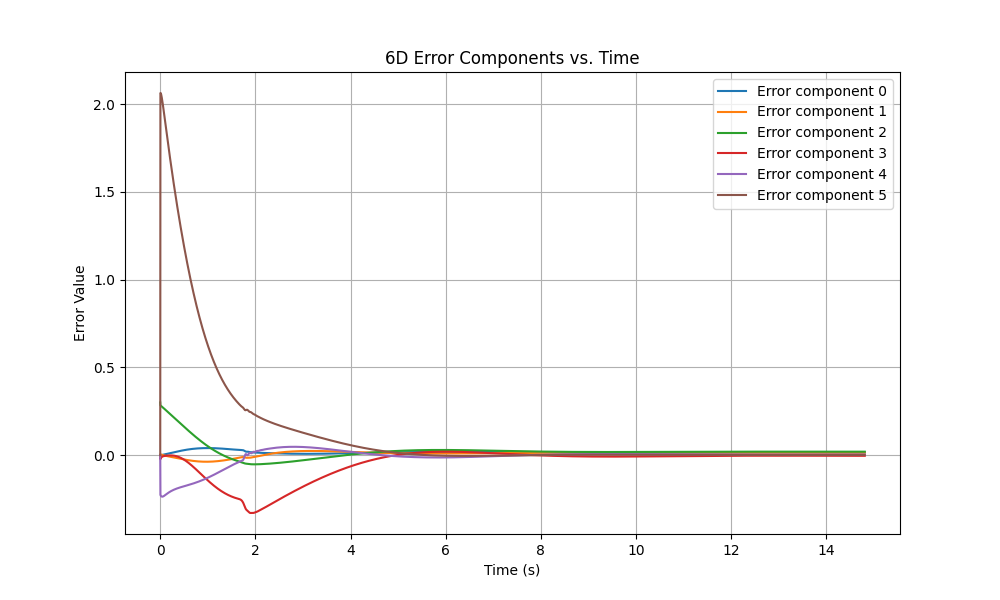
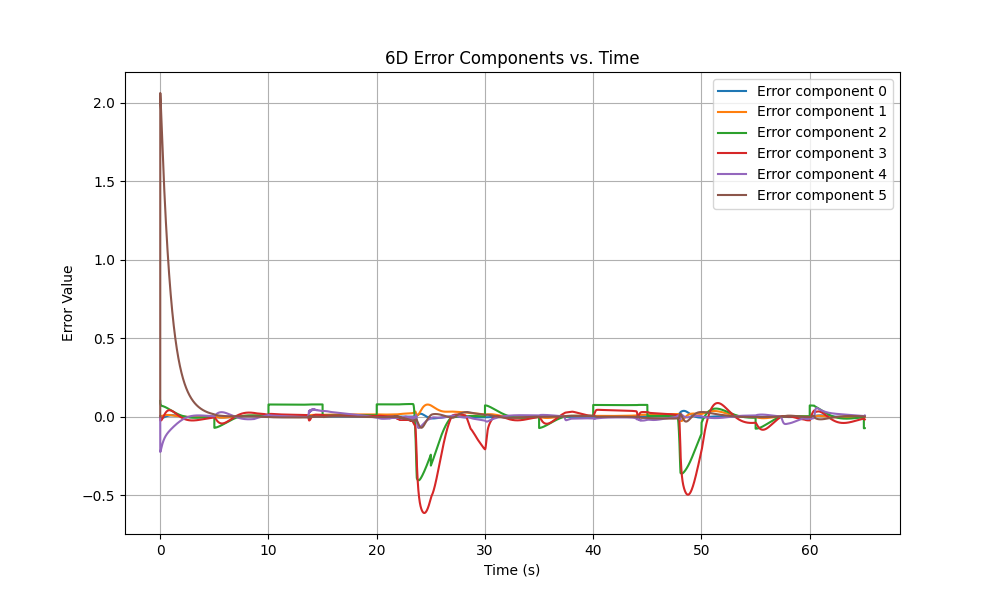
improved slipping problem by making impratio=50, adding friction params

diff --git a/sim.py b/sim.py
@@ -41,15 +41,15 @@ def get_task_pose(model, data, task: str) -> np.ndarray:
     task_pose = np.zeros(7) # first 3 are positions, last 4 are quaternions
     if task == 'pre-grasp':
         task_pose[:3] = data.body("object").xpos
-        task_pose[2] += 0.3 # the gripper should be 30cm above the target while pre-grasp in the z direction
+        task_pose[2] += 0.1 # the gripper should be 30cm above the target while pre-grasp in the z direction
         task_pose[3:] = data.body("object").xquat # set to the orientation of the target
     elif task == 'move-down':
         task_pose[:3] = data.body("object").xpos
-        task_pose[2] += 0.15 # the gripper should be just above the object to grasp it. 
+        task_pose[2] += 0.03 # the gripper should be just above the object to grasp it. 
         task_pose[3:] = data.body("object").xquat # set to the orientation of the target
     elif task == 'grasp':
         task_pose[:3] = data.body("object").xpos
-        task_pose[2] += 0.15 # the gripper should be just above the box to grasp it. 
+        task_pose[2] += 0.03 # the gripper should be just above the box to grasp it. 
         task_pose[3:] = data.body("object").xquat # set to the orientation of the target
     elif task == 'move-up':
         pass
@@ -69,8 +69,8 @@ def key_callback(key):
             data.qpos[model.joint("cover_finger2").qposadr] = -0.02
         else:
             # Close the fingers
-            data.qpos[model.joint("cover_finger1").qposadr] = 0.0
-            data.qpos[model.joint("cover_finger2").qposadr] = 0.0
+            data.qpos[model.joint("cover_finger1").qposadr] = 0.005
+            data.qpos[model.joint("cover_finger2").qposadr] = -0.005
 
 def plot_errors(error_matrix, time_steps) -> None:
     # Convert the error list to a NumPy array of shape (num_steps, 6)
@@ -95,14 +95,14 @@ def execute_tasks(model, data, flag=1) -> None:
     if flag == 0:
         task_space = ['mocap']
     else:
-        task_space = ['pre-grasp']
+        task_space = ['pre-grasp', 'move-down']
     
     # End-effector site we wish to control.
     site_name = "grip_site"
     site_id = model.site(site_name).id
 
-    # Get the DOF and actuator ids
-    dof_ids = np.array([i for i in range(model.nv)])
+    # Get the DOF and actuator ids. Subtract 6 to exclude the 6-DOF free body.
+    dof_ids = np.array([i for i in range(model.nv-6)])
     actuator_ids = dof_ids
 
     # Initial joint configuration saved as a keyframe in the XML file.
@@ -127,6 +127,11 @@ def execute_tasks(model, data, flag=1) -> None:
     time_steps = []
     error_matrix = []  # Each element will be a 6-element vector (list or array)
 
+    # Start with a certain task in the task space. 
+    task = task_space[0]
+    task_pose = get_task_pose(model, data, task)
+    print(f"Initial task at target pose: {task, task_pose}")
+
     with mujoco.viewer.launch_passive(
         model=model,
         data=data,
@@ -142,14 +147,14 @@ def execute_tasks(model, data, flag=1) -> None:
 
         # Enable site frame visualization.
         viewer.opt.frame = mujoco.mjtFrame.mjFRAME_SITE
+
+        # Enable contact points visualization.
+        viewer.opt.flags[mujoco.mjtVisFlag.mjVIS_CONTACTPOINT] = True
+        
         while viewer.is_running():
             step_start = time.time()
-
-            # Start with a certain task in the task space. 
-            task = task_space[0]
+            
             task_pose = get_task_pose(model, data, task)
-
-            #dx = named_body.xpos - data.site(site_id).xpos
             error_pos[:] = task_pose[:3] - data.site(site_id).xpos
             mujoco.mju_mat2Quat(site_quat, data.site(site_id).xmat)
             mujoco.mju_negQuat(site_quat_conj, site_quat)
@@ -172,7 +177,10 @@ def execute_tasks(model, data, flag=1) -> None:
             mujoco.mj_integratePos(model, q, dq, integration_dt)
 
             # Set the control signal.
-            np.clip(q, *model.jnt_range.T, out=q)
+            #np.clip(q, *model.jnt_range.T, out=q)
+            # Assuming q is the array of joint positions and dof_ids is the array of indices for the joints to be clipped
+            for dof_id in dof_ids:
+                q[dof_id] = np.clip(q[dof_id], model.jnt_range[dof_id, 0], model.jnt_range[dof_id, 1])
             data.ctrl[actuator_ids] = q[dof_ids]
 
             # Step the simulation
@@ -181,9 +189,9 @@ def execute_tasks(model, data, flag=1) -> None:
 
             # Update the task every X ticks
             if i % int(task_time / dt) == 0:
-                task = task_space.pop(0) # the first run, this is 'pre-grasp'
+                task_space.pop(0) # the first run, this is 'pre-grasp'
                 task_space.append(task)
-                error_integral = np.zeros(6)
+                task = task_space[0]
                 print(f"Switching to task at target pose: {task, task_pose}")
 
             viewer.sync()
